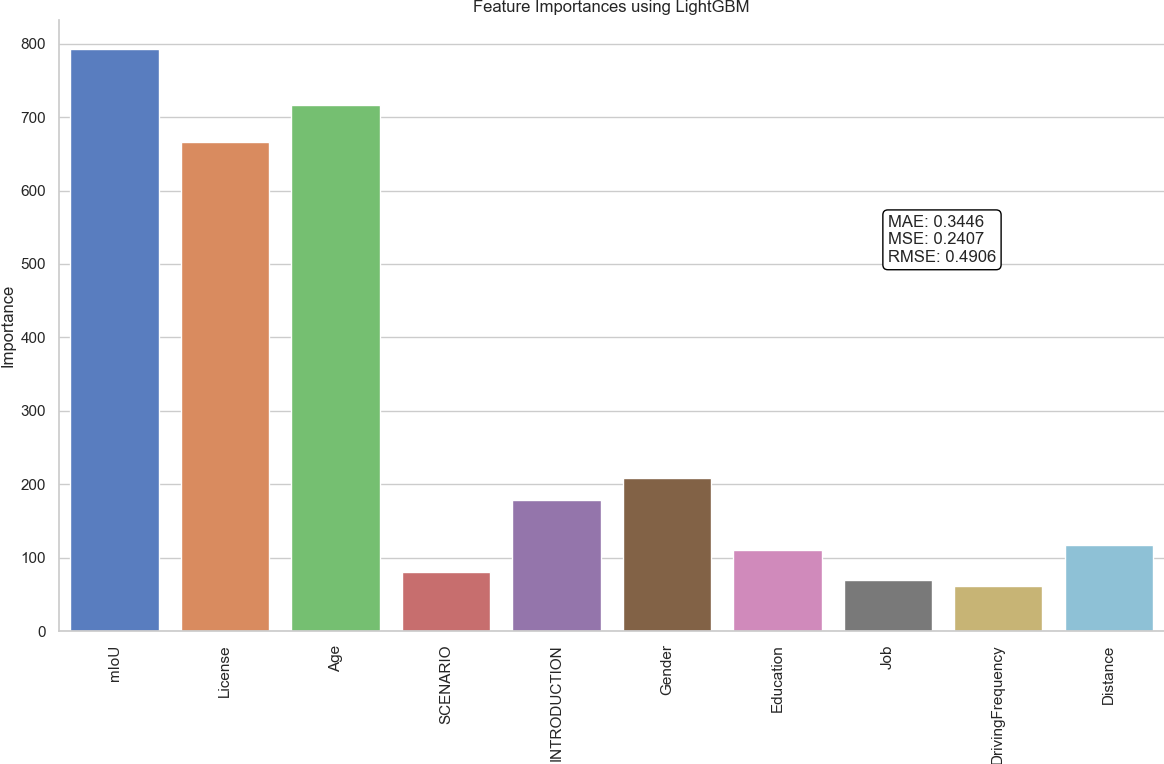
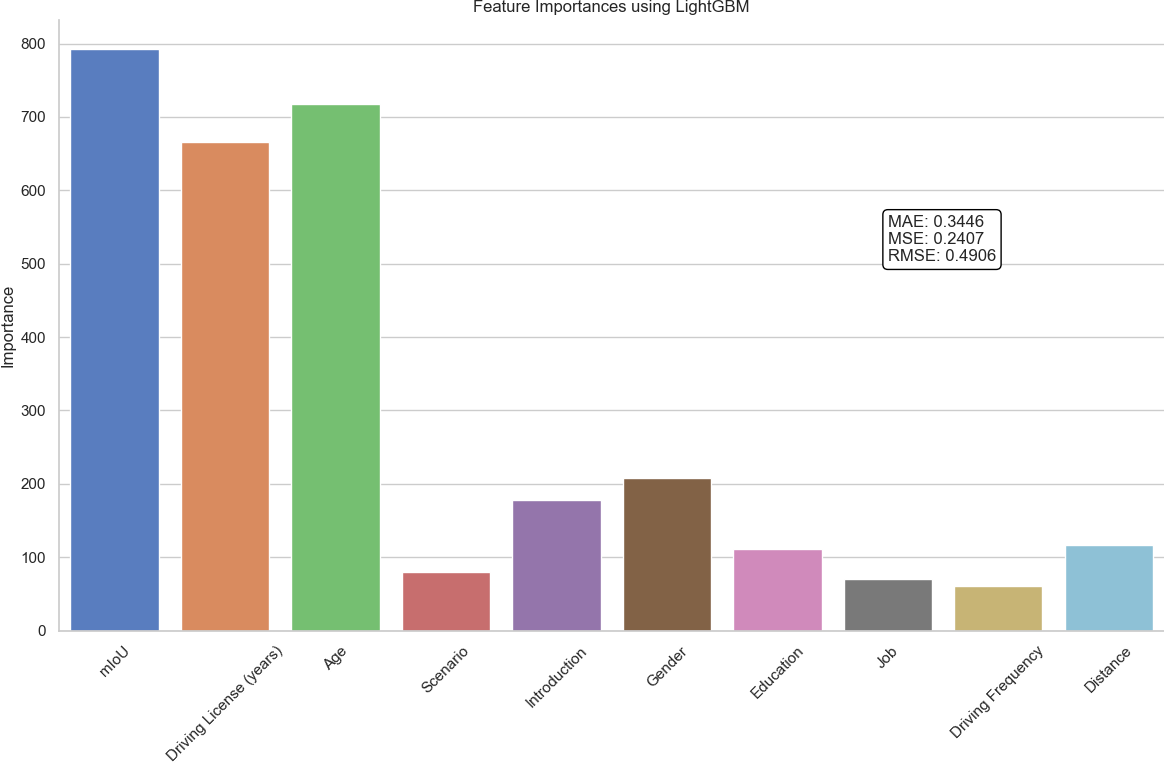
update to lightgbm 4.6.0

diff --git a/ML-approaches.py b/ML-approaches.py
@@ -625,8 +625,6 @@ importances = model.feature_importances_
 # Map feature importances to feature names
 feature_names = X_train.columns.tolist()
 forest_importances = pd.Series(importances, index=feature_names)
-
-# Prepare the data
 forest_importances.index = forest_importances.index.to_series().replace(label_replacements)
 
 
@@ -702,15 +700,14 @@ importances = model.feature_importances_
 # Map feature importances to feature names
 feature_names = X_train.columns.tolist()
 forest_importances = pd.Series(importances, index=feature_names)
+forest_importances.index = forest_importances.index.to_series().replace(label_replacements)
+
 
 # Apply a Seaborn style
 sns.set(style="whitegrid")
-
-# Create the plot
 plt.figure(figsize=(12, 8))
 sns.barplot(x=forest_importances.index, y=forest_importances.values, hue=forest_importances.index, palette="muted", legend=False)
 
-# Add labels and title
 plt.xlabel('')
 plt.ylabel('Importance')
 plt.title('Feature Importances using LightGBM')
@@ -719,11 +716,9 @@ plt.title('Feature Importances using LightGBM')
 metrics_text = f"MAE: {mae:.4f}\nMSE: {mse:.4f}\nRMSE: {rmse:.4f}"
 plt.text(0.75, 0.6, metrics_text, transform=plt.gca().transAxes, fontsize=12, verticalalignment='bottom', bbox=dict(boxstyle='round,pad=0.3', facecolor='white', edgecolor='black'))
 
-# Optional: Rotate x labels for better visibility
-plt.xticks(rotation=90)
+plt.xticks(rotation=45)
 sns.despine()
 
-# Show the plot
 plt.tight_layout()
 file_path = folder_path / 'feature_importance_lightgbm.png'
 plt.savefig(file_path, bbox_inches='tight', pad_inches=0)
@@ -743,12 +738,9 @@ np.abs(shap_values.sum(axis=1) + explanation.base_values - y_pred).max()
 
 
 plt.figure(figsize=(10, 8))
-# Generate the SHAP summary plot with a specified color palette
 shap.plots.beeswarm(explanation, show = False)
-# Adjust layout to fit and prevent label cut-off
 plt.tight_layout()
 
-# Save the plot in high resolution
 file_path = folder_path / 'enhanced_shap_summary_plot_lgboost.png'
 plt.savefig(file_path, bbox_inches='tight', pad_inches=0)
 